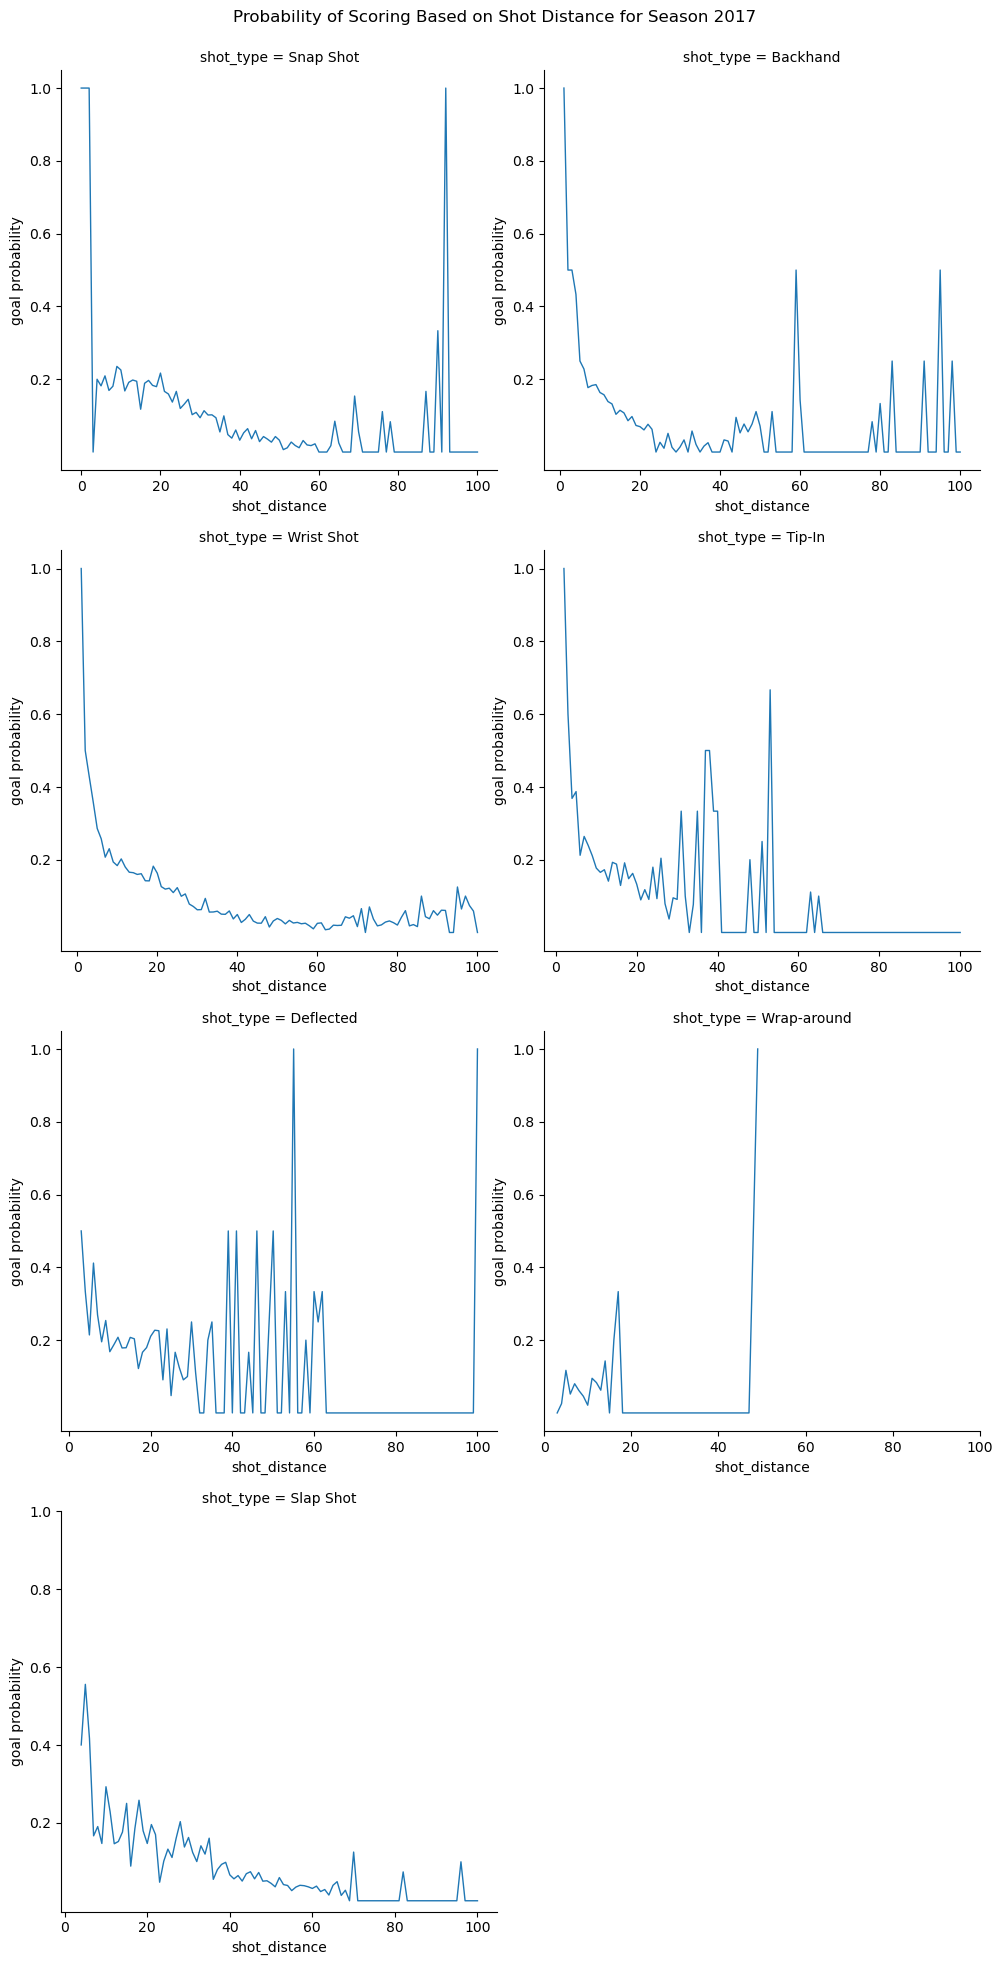
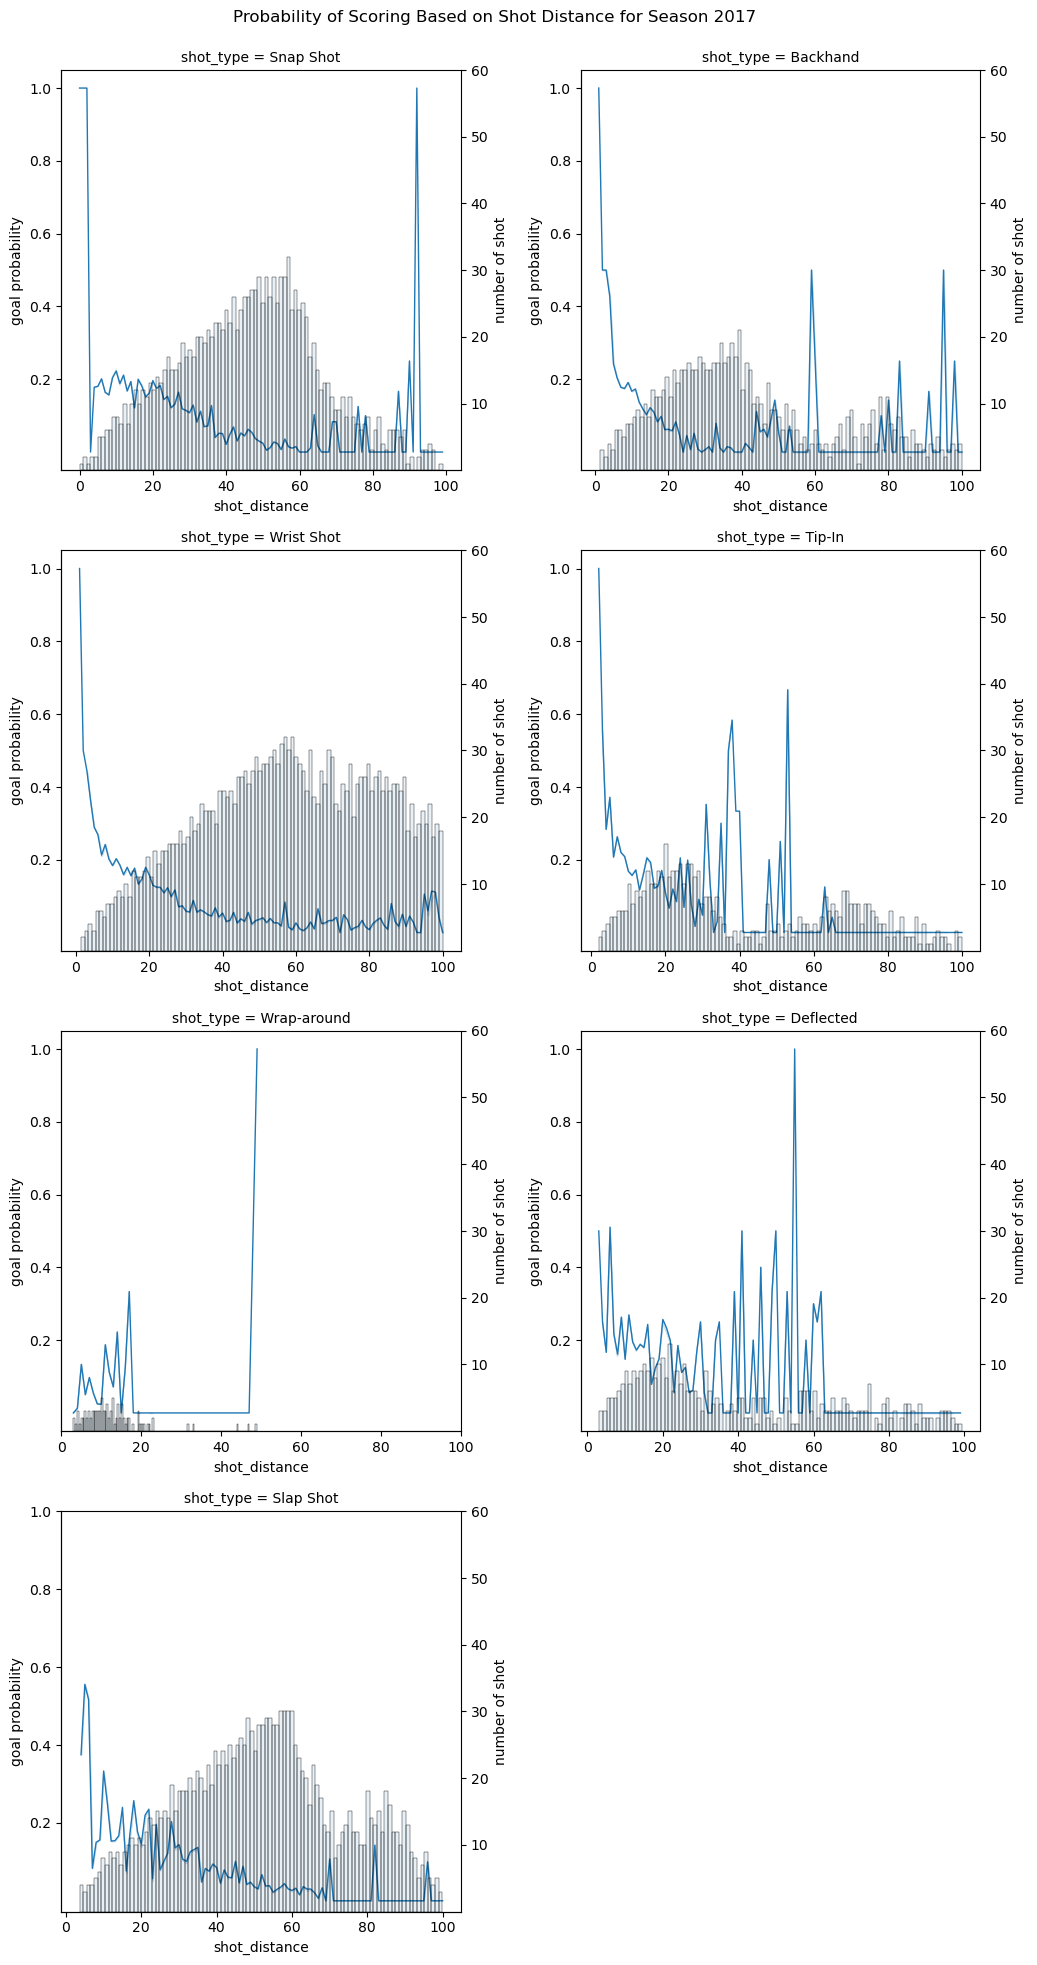
final fixes of Q5 plots

diff --git a/ift6758/visualizations/plots.py b/ift6758/visualizations/plots.py
@@ -82,14 +82,16 @@ class HockeyPlotter:
 		for year_index, year in enumerate(['20182019', '20192020', '20202021']):
 			plt.subplot(3, 1, year_index + 1)
 
-			ax = sns.lineplot(x='shot_distance',y='is_goal', data=filtered_df)
+			ax = sns.lineplot(x='shot_distance', y='is_goal',
+			                  data=filtered_df[filtered_df['season'].astype(str) == year])
 			plt.title(f'{year[0:4]} - {year[4::]} season')
 			ax.set_axisbelow(True)
 			ax.yaxis.grid(color='gray', linestyle='dashed')
 			plt.xticks(np.arange(0, 210, 10), rotation=20)
 			plt.xlabel('Shot distance (ft)')
 			plt.ylabel('Goal Probability')
-		plt.suptitle('Shot Distance vs Goal Probability (95% CI) \n 2018-19, 2019-20, 2020-21 seasons', size=14,y=0.935)
+		plt.suptitle('Shot Distance vs Goal Probability (95% CI) \n 2018-19, 2019-20, 2020-21 seasons', size=14,
+		             y=0.935)
 		plt.show()
 		if save_fig:
 			fig.savefig(os.path.join(SAVE_FIG_PATH, "Q5-2_distance_vs_goal_chance.png"))
@@ -107,31 +109,31 @@ class HockeyPlotter:
 		filtered_data = df.dropna(subset=["shot_type", "shot_distance"]).copy()
 		filtered_data = filtered_data[filtered_data["season"].astype(str) == season].copy()
 		filtered_data.loc["shot_distance"] = filtered_data["shot_distance"].round(0)
-		
+
 		plot_data = filtered_data.groupby(["shot_distance", "shot_type"])["is_goal"].mean().to_frame().reset_index()
 		plot_data = plot_data[plot_data["shot_distance"] <= 100]
 		plot_data["shot_distance"] = plot_data["shot_distance"].round(0)
-		
-		hist_data =  filtered_data[["shot_distance", "shot_type", "game_id"]].groupby(["shot_distance", "shot_type"]).count().reset_index().copy()
+
+		hist_data = filtered_data[["shot_distance", "shot_type", "game_id"]].groupby(
+			["shot_distance", "shot_type"]).count().reset_index().copy()
 		hist_data = hist_data[hist_data["shot_distance"] <= 100].copy()
 		dict_hist = {}
-		
+
 		for i, shot_type in enumerate(hist_data["shot_type"].unique()):
-			dict_hist[i] = hist_data[hist_data["shot_type"]==shot_type][["shot_distance","game_id"]].copy()
-		
+			dict_hist[i] = hist_data[hist_data["shot_type"] == shot_type][["shot_distance", "game_id"]].copy()
+
 		g = sns.relplot(data=plot_data, x="shot_distance", y="is_goal", col="shot_type",
 		                kind="line", linewidth=1, col_wrap=2, ci=0, facet_kws={'sharey': False, 'sharex': False})
-		
-		
-		i=0
+
+		i = 0
 		for ax in g.axes.flat:
 			ax2 = ax.twinx()
-			sns.histplot(data =dict_hist[i] , x= "shot_distance", bins = 100, ax= ax2, alpha= 0.3)
+			sns.histplot(data=dict_hist[i], x="shot_distance", bins=100, ax=ax2, alpha=0.1)
 			ax.set_xlabel("shot_distance")
 			ax.set_ylabel("goal probability")
 			ax.set_xticks([0, 20, 40, 60, 80, 100])
 			ax.set_yticks([0.2, 0.4, 0.6, 0.8, 1.0])
-			ax2.set_yticks([ 10, 20, 30, 40, 50, 60])
+			ax2.set_yticks([10, 20, 30, 40, 50, 60])
 			ax2.set_xticks([0, 20, 40, 60, 80, 100])
 			ax2.set_ylabel('number of shot')
 			i += 1
@@ -144,7 +146,6 @@ class HockeyPlotter:
 		return g
 
 
-
 def main():
 	df = pd.read_csv(TIDY_DATA_PATH)
 	hockey_plotter = HockeyPlotter()
@@ -154,6 +155,7 @@ def main():
 	hockey_plotter.distance_vs_goal_chance(df)
 	# Plot Q5.3
 	hockey_plotter.distance_and_type_vs_goal(df)
+
 
 if __name__ == "__main__":
 	main()
